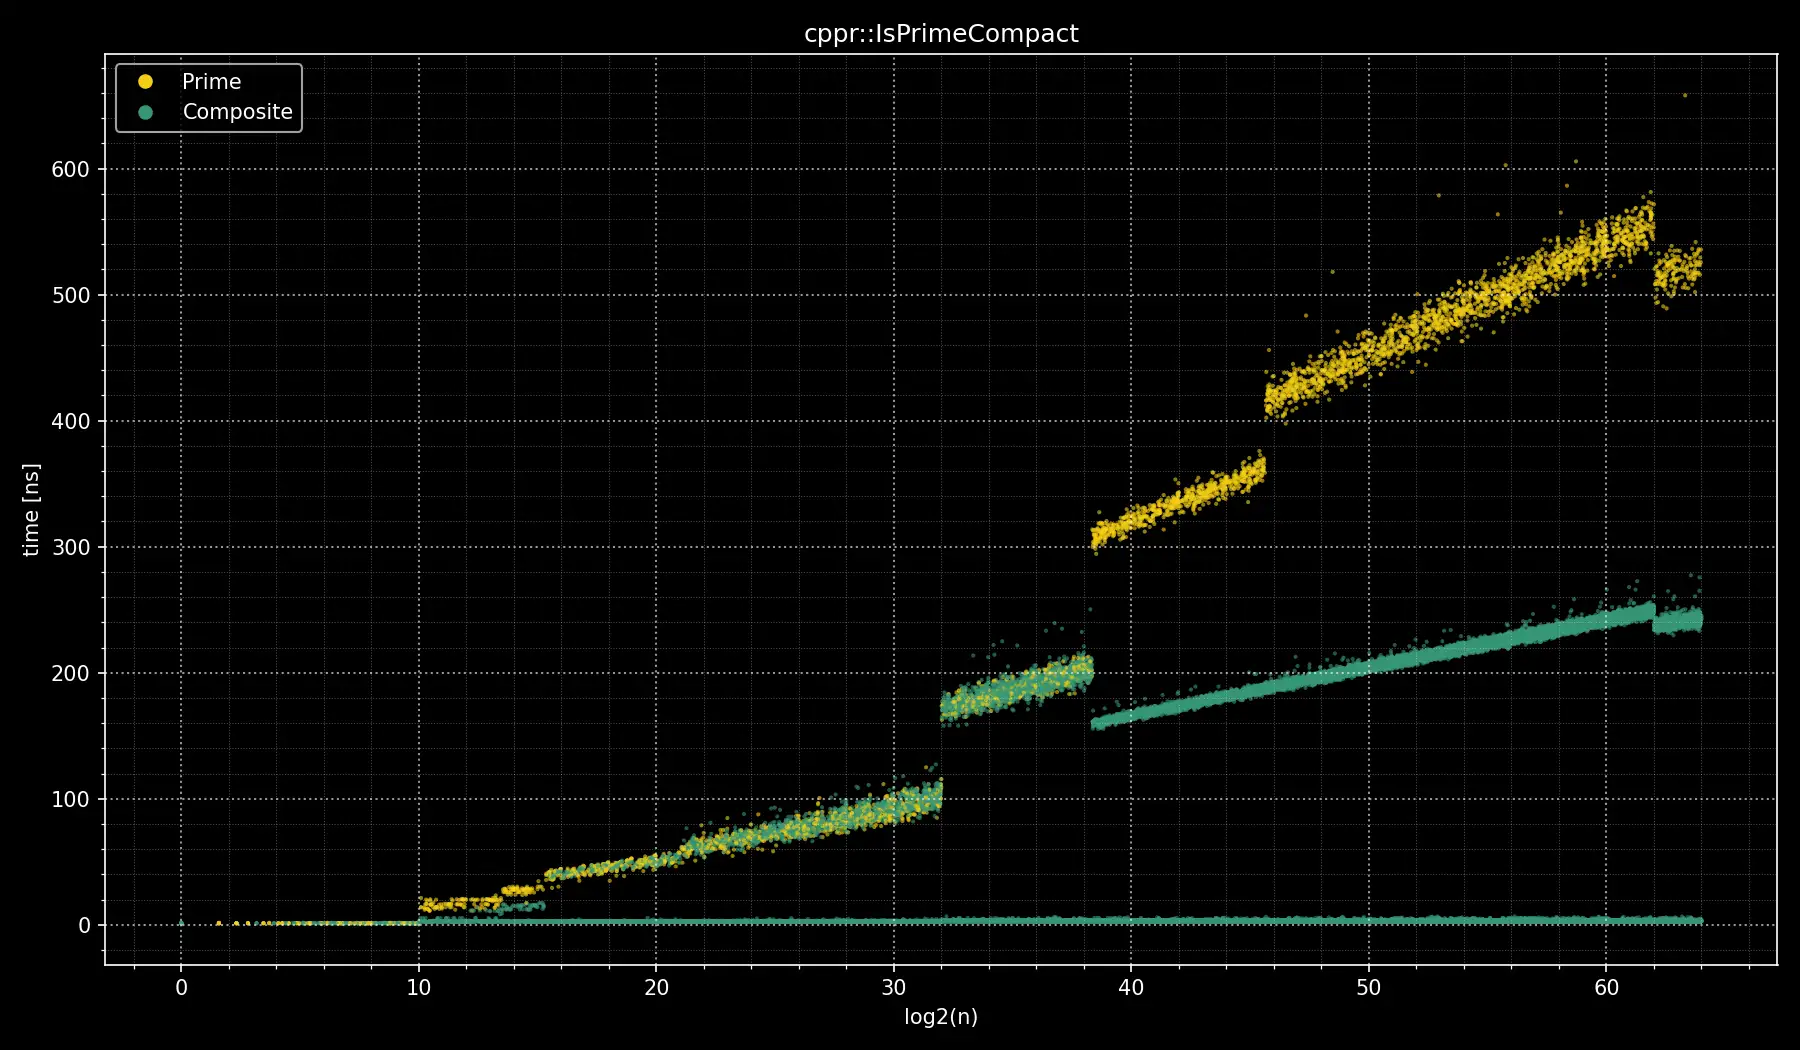
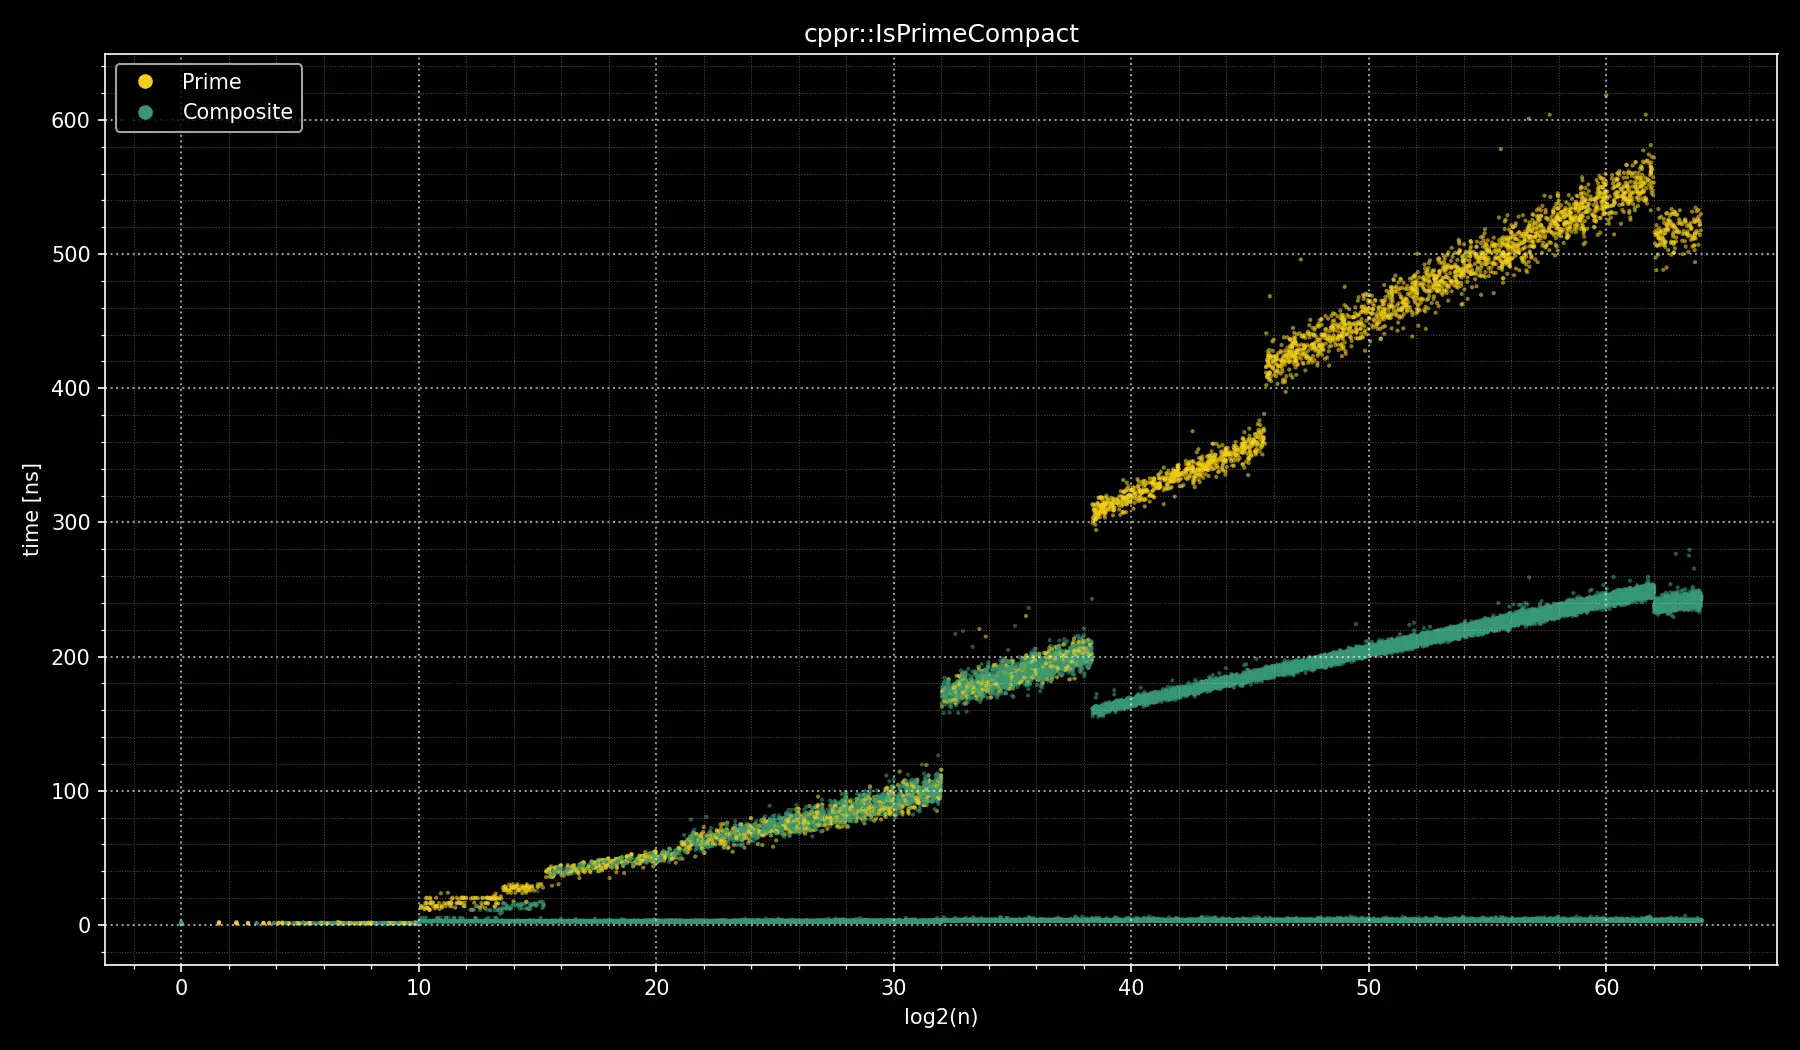
chore(bench): publish run 40712072558 640065c24d7872c38c22e450009546de088c6492

diff --git a/benchmarks/latest/benchmark-Linux-gcc/bench_summary.md b/benchmarks/latest/benchmark-Linux-gcc/bench_summary.md
@@ -2,19 +2,19 @@
 
 ## Overall summary
 
-- IsPrime averages 120.31 ns on prime inputs and 40.04 ns on composite inputs.
-- IsPrimeCompact averages 239.89 ns on prime inputs and 45.06 ns on composite inputs.
+- IsPrime averages 142.72 ns on prime inputs and 47.28 ns on composite inputs.
+- IsPrimeCompact averages 285.82 ns on prime inputs and 53.54 ns on composite inputs.
 
 ## Averages by 8-bit range (nanoseconds)
 
 | Bit range | IsPrime (prime) | IsPrimeCompact (prime) | IsPrime (composite) | IsPrimeCompact (composite) |
 |-----------|-----------------|------------------------|---------------------|----------------------------|
-| 1-8 | 1.90 | 2.25 | 1.90 | 2.26 |
-| 9-16 | 1.90 | 21.08 | 1.90 | 4.79 |
-| 17-24 | 28.93 | 66.69 | 8.09 | 16.91 |
-| 25-32 | 96.37 | 97.16 | 26.47 | 26.73 |
-| 33-40 | 155.79 | 234.12 | 49.46 | 63.21 |
-| 41-48 | 186.79 | 389.00 | 61.07 | 64.53 |
-| 49-56 | 218.17 | 494.38 | 73.57 | 77.38 |
-| 57-62 | 245.19 | 555.00 | 84.11 | 87.92 |
-| 63-64 | 295.86 | 673.80 | 100.98 | 112.32 |
+| 1-8 | 2.41 | 2.47 | 2.44 | 2.47 |
+| 9-16 | 2.51 | 20.74 | 2.51 | 4.82 |
+| 17-24 | 32.40 | 69.16 | 9.16 | 17.27 |
+| 25-32 | 108.16 | 108.94 | 29.55 | 29.62 |
+| 33-40 | 186.55 | 281.62 | 58.62 | 75.07 |
+| 41-48 | 224.16 | 475.85 | 72.67 | 79.07 |
+| 49-56 | 262.32 | 597.13 | 87.85 | 94.97 |
+| 57-62 | 295.19 | 670.59 | 100.72 | 108.02 |
+| 63-64 | 337.27 | 769.18 | 114.69 | 125.08 |

diff --git a/benchmarks/latest/benchmark-Linux-clang/bench_summary.md b/benchmarks/latest/benchmark-Linux-clang/bench_summary.md
@@ -2,19 +2,19 @@
 
 ## Overall summary
 
-- IsPrime averages 120.30 ns on prime inputs and 40.05 ns on composite inputs.
-- IsPrimeCompact averages 239.88 ns on prime inputs and 45.09 ns on composite inputs.
+- IsPrime averages 126.43 ns on prime inputs and 42.26 ns on composite inputs.
+- IsPrimeCompact averages 250.64 ns on prime inputs and 45.28 ns on composite inputs.
 
 ## Averages by 8-bit range (nanoseconds)
 
 | Bit range | IsPrime (prime) | IsPrimeCompact (prime) | IsPrime (composite) | IsPrimeCompact (composite) |
 |-----------|-----------------|------------------------|---------------------|----------------------------|
-| 1-8 | 1.93 | 2.28 | 1.90 | 2.27 |
-| 9-16 | 1.91 | 21.08 | 1.91 | 4.84 |
-| 17-24 | 28.94 | 66.74 | 8.10 | 16.96 |
-| 25-32 | 96.33 | 97.08 | 26.45 | 26.76 |
-| 33-40 | 155.83 | 234.13 | 49.46 | 63.23 |
-| 41-48 | 186.75 | 389.06 | 61.08 | 64.55 |
-| 49-56 | 218.16 | 494.37 | 73.58 | 77.41 |
-| 57-62 | 245.09 | 554.93 | 84.12 | 87.94 |
-| 63-64 | 295.78 | 673.70 | 100.99 | 112.33 |
+| 1-8 | 2.73 | 2.01 | 2.78 | 1.96 |
+| 9-16 | 2.94 | 18.96 | 2.94 | 4.18 |
+| 17-24 | 34.34 | 63.29 | 10.04 | 15.83 |
+| 25-32 | 119.07 | 117.90 | 32.88 | 31.71 |
+| 33-40 | 158.64 | 240.12 | 50.62 | 64.56 |
+| 41-48 | 190.78 | 399.11 | 62.57 | 63.37 |
+| 49-56 | 223.12 | 521.48 | 75.50 | 76.61 |
+| 57-62 | 250.91 | 586.93 | 86.38 | 87.52 |
+| 63-64 | 304.89 | 683.89 | 104.35 | 110.20 |

diff --git a/benchmarks/latest/benchmark-Windows-clang-cl/bench_summary.md b/benchmarks/latest/benchmark-Windows-clang-cl/bench_summary.md
@@ -2,19 +2,19 @@
 
 ## Overall summary
 
-- IsPrime averages 127.98 ns on prime inputs and 43.00 ns on composite inputs.
-- IsPrimeCompact averages 252.64 ns on prime inputs and 47.10 ns on composite inputs.
+- IsPrime averages 128.60 ns on prime inputs and 43.43 ns on composite inputs.
+- IsPrimeCompact averages 252.82 ns on prime inputs and 46.25 ns on composite inputs.
 
 ## Averages by 8-bit range (nanoseconds)
 
 | Bit range | IsPrime (prime) | IsPrimeCompact (prime) | IsPrime (composite) | IsPrimeCompact (composite) |
 |-----------|-----------------|------------------------|---------------------|----------------------------|
-| 1-8 | 3.04 | 1.85 | 3.02 | 1.80 |
-| 9-16 | 3.03 | 19.61 | 3.04 | 3.96 |
-| 17-24 | 30.03 | 61.15 | 9.02 | 15.00 |
-| 25-32 | 97.95 | 96.64 | 27.17 | 25.97 |
-| 33-40 | 166.73 | 249.17 | 53.09 | 66.30 |
-| 41-48 | 200.25 | 420.48 | 65.61 | 69.66 |
-| 49-56 | 234.11 | 528.53 | 79.22 | 83.80 |
-| 57-62 | 263.54 | 593.43 | 90.67 | 95.35 |
-| 63-64 | 301.77 | 669.09 | 103.29 | 109.85 |
+| 1-8 | 4.01 | 2.35 | 4.15 | 2.50 |
+| 9-16 | 4.19 | 19.37 | 4.19 | 4.43 |
+| 17-24 | 35.73 | 66.18 | 11.05 | 16.53 |
+| 25-32 | 119.74 | 124.02 | 33.44 | 33.47 |
+| 33-40 | 161.15 | 239.59 | 51.64 | 63.72 |
+| 41-48 | 193.71 | 407.27 | 63.78 | 64.95 |
+| 49-56 | 226.64 | 520.59 | 76.93 | 78.56 |
+| 57-62 | 254.81 | 586.06 | 87.98 | 89.84 |
+| 63-64 | 307.84 | 689.26 | 105.68 | 110.01 |

diff --git a/benchmarks/latest/benchmark-Windows-msvc/bench_summary.md b/benchmarks/latest/benchmark-Windows-msvc/bench_summary.md
@@ -2,19 +2,19 @@
 
 ## Overall summary
 
-- IsPrime averages 110.40 ns on prime inputs and 36.22 ns on composite inputs.
-- IsPrimeCompact averages 221.14 ns on prime inputs and 40.22 ns on composite inputs.
+- IsPrime averages 107.63 ns on prime inputs and 35.96 ns on composite inputs.
+- IsPrimeCompact averages 221.06 ns on prime inputs and 40.28 ns on composite inputs.
 
 ## Averages by 8-bit range (nanoseconds)
 
 | Bit range | IsPrime (prime) | IsPrimeCompact (prime) | IsPrime (composite) | IsPrimeCompact (composite) |
 |-----------|-----------------|------------------------|---------------------|----------------------------|
-| 1-8 | 1.72 | 1.35 | 1.45 | 1.36 |
-| 9-16 | 1.70 | 17.69 | 1.40 | 3.83 |
-| 17-24 | 25.37 | 53.73 | 6.76 | 13.68 |
-| 25-32 | 84.94 | 84.93 | 22.92 | 23.37 |
-| 33-40 | 145.24 | 215.22 | 45.29 | 57.31 |
-| 41-48 | 174.67 | 367.28 | 56.27 | 58.87 |
-| 49-56 | 204.21 | 472.13 | 68.15 | 71.44 |
-| 57-62 | 229.80 | 532.40 | 78.11 | 81.70 |
-| 63-64 | 237.59 | 520.01 | 80.93 | 83.62 |
+| 1-8 | 2.10 | 1.42 | 2.17 | 1.38 |
+| 9-16 | 2.19 | 17.67 | 2.18 | 3.93 |
+| 17-24 | 25.71 | 53.69 | 7.45 | 13.78 |
+| 25-32 | 84.72 | 84.78 | 23.46 | 23.43 |
+| 33-40 | 140.77 | 215.45 | 44.66 | 57.35 |
+| 41-48 | 168.91 | 367.20 | 55.19 | 58.93 |
+| 49-56 | 197.36 | 472.01 | 66.61 | 71.50 |
+| 57-62 | 222.05 | 532.74 | 76.16 | 81.76 |
+| 63-64 | 238.10 | 516.81 | 81.67 | 83.66 |
